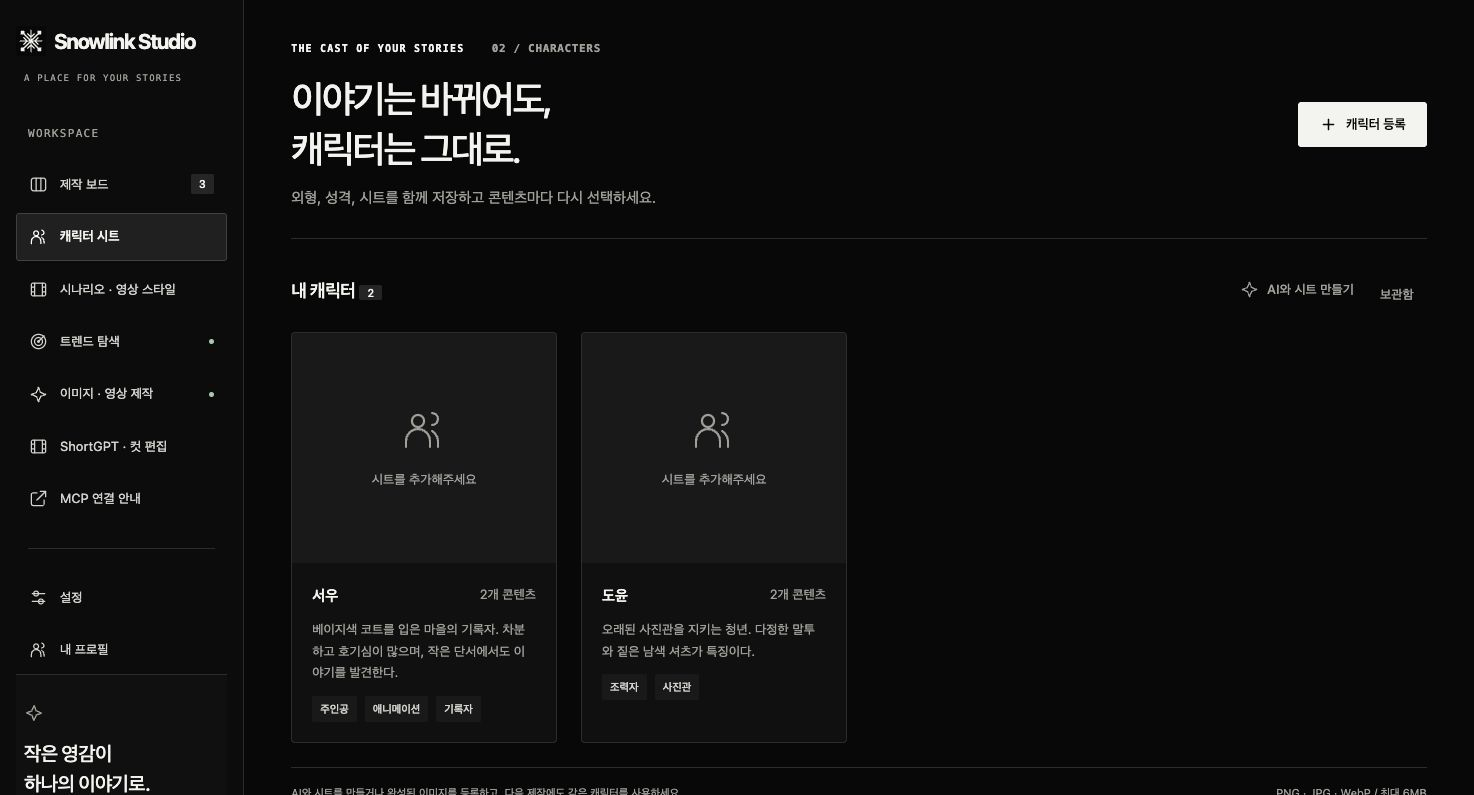
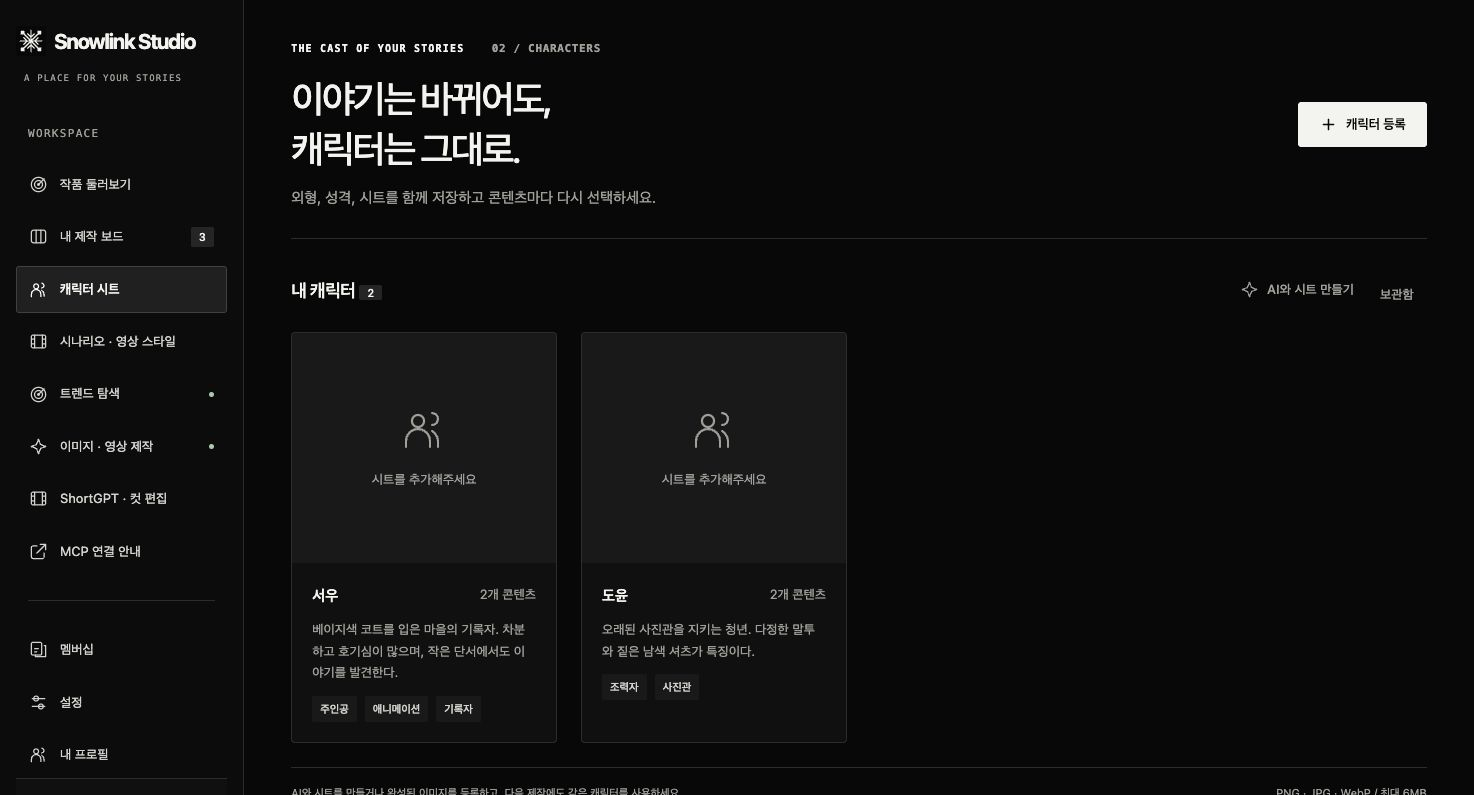
feat: align company site with Studio exploration and memberships

diff --git a/apps/company/lib/config.js b/apps/company/lib/config.js
@@ -15,24 +15,42 @@ export function companyConfig() {
     service: {
       url: 'https://studio.snowlink.team',
       name: 'Snowlink Studio',
-      button: 'Snowlink Studio 시작하기',
+      button: 'Snowlink Studio 둘러보기',
       caption: 'AI 콘텐츠 제작 작업실',
       description: '캐릭터에서 이야기로, 이야기에서 장면으로.',
     },
     headline: '작은 영감을,\n완성된 이야기로',
-    introduction: 'Snowlink Studio는 AI 캐릭터 시트와 시나리오,\n이미지·영상 제작을 하나의 작업실로 연결합니다.',
-    productSummary: 'Snowlink Studio는 캐릭터 시트 생성, 소설·시나리오 작성, 이미지·영상 생성과 컷 편집을 연결하는 AI 콘텐츠 제작 웹 서비스입니다. 전체 플롯부터 회차별 원고까지 순서대로 작성하고, 인물·사건·복선을 구조화해 다음 회차와 장면 제작에 활용합니다.',
+    introduction: '새로운 이야기를 만나고, 나의 작품을 시작하세요.\nSnowlink Studio는 작품 탐색부터 캐릭터·소설,\n이미지·영상 제작까지 하나의 흐름으로 연결합니다.',
+    productSummary: 'Snowlink Studio는 작품을 둘러보는 탐색 공간과 나만의 AI 콘텐츠 작업실을 연결하는 웹 서비스입니다. 캐릭터와 소설, 장면 이미지를 살펴본 뒤 내 제작 보드에서 캐릭터 시트, 회차별 원고, 이미지·영상 생성과 컷 편집을 이어갈 수 있습니다.',
     productAudience: '연재 소설과 시리즈를 쓰는 작가, 캐릭터를 반복 활용하는 크리에이터, 애니메이션·실사 스타일의 영상 콘텐츠를 기획하는 제작자를 위한 작업실입니다.',
+    entryPoints: [
+      { title: '이야기를 발견하기', label: '작품 둘러보기', path: '/', icon: 'radar', description: '캐릭터·소설·콘텐츠를 검색하고, 창작자별 작품과 같은 세계관의 이야기를 살펴봅니다.' },
+      { title: '내 작품 시작하기', label: '내 제작 보드', path: '/board', icon: 'board', description: '소재와 캐릭터를 기획에 연결하고, 원고 작성부터 장면 제작까지 내 작업을 이어갑니다.' },
+      { title: '다음 작업 준비하기', label: '멤버십 미리보기', path: '/membership', icon: 'cards', description: 'Free·Creator·Pro 구성안을 비교합니다. 유료 등급은 출시 예정이며 실제 결제는 진행되지 않습니다.' },
+    ],
+    showcaseNotice: '작품 탐색은 가상 창작자 3명의 캐릭터·소설·이미지 콘텐츠를 담은 목업 쇼케이스입니다. 실제 사용자 게시물의 공개 연동은 준비 중입니다.',
+    membership: {
+      title: '작업의 크기에 맞춰, 다음 이야기를 준비하세요.',
+      description: '가볍게 둘러보는 시작부터 개인 콘텐츠와 장편 시리즈 제작까지. 현재는 등급별 구성과 결제 흐름을 살펴보는 멤버십 미리보기입니다.',
+      notice: '유료 가격과 정확한 이용 한도는 출시 시 안내합니다. 미리보기에서는 결제 정보를 입력하지 않으며, 실제 청구·구독 신청·계정 권한 변경이 이루어지지 않습니다.',
+      plans: [
+        { name: 'Free', price: '무료', description: '작업실과 기본 제작 흐름을 가볍게 둘러보는 시작.', features: ['작품 쇼케이스와 제작 보드', '캐릭터·시나리오 제작 화면', '이미지·영상·컷 편집 흐름'] },
+        { name: 'Creator', price: '출시 예정', description: '캐릭터와 이야기를 쌓아가는 개인 크리에이터를 위한 구성안.', features: ['캐릭터·프롬프트 템플릿 활용 확대', '회차별 원고와 복선 관리 중심', '생성 이용량 확장 예정'] },
+        { name: 'Pro', price: '출시 예정', description: '긴 시리즈와 여러 콘텐츠를 꾸준히 제작하는 분을 위한 구성안.', features: ['장편·다회차 제작 중심', '캐릭터·스타일 템플릿 확장', '생성 이용량 추가 확대 예정'] },
+      ],
+    },
     faq: [
-      { id: 'what-is-snowlink-studio', question: 'Snowlink Studio는 어떤 제품인가요?', answer: 'Snowlink Studio는 스노우링크(SnowLink)가 만드는 AI 콘텐츠 제작 웹 서비스입니다. 트렌드 탐색과 제작 보드, 캐릭터 시트, 소설·시나리오, 이미지·영상 생성, 컷 편집을 한 작업실에서 이어서 사용할 수 있습니다.' },
+      { id: 'what-is-snowlink-studio', question: 'Snowlink Studio는 어떤 제품인가요?', answer: 'Snowlink Studio는 스노우링크(SnowLink)가 만드는 작품 탐색 공간이자 AI 콘텐츠 제작 작업실입니다. 첫 화면에서 캐릭터·소설·이미지 콘텐츠를 둘러보고, 내 제작 보드에서 캐릭터 시트, 회차별 원고, 이미지·영상 생성과 컷 편집을 이어갈 수 있습니다.' },
+      { id: 'explore-and-creators', question: '첫 화면에서는 무엇을 볼 수 있나요?', answer: '기본 화면은 작품 둘러보기입니다. 캐릭터·소설·콘텐츠를 종류별로 필터링하거나 검색하고, 작품 상세와 창작자별 목록을 열 수 있습니다. 소설은 회차를 바꾸며 읽고 관련 캐릭터와 장면을 함께 볼 수 있습니다. 현재는 가상 창작자 3명, 캐릭터·소설·이미지 콘텐츠 각 3개와 소설 6개 회차로 구성한 목업이며, 실제 사용자 게시물의 공개 연동은 준비 중입니다.' },
       { id: 'story-continuity', question: '긴 소설이나 시리즈의 앞뒤 내용을 어떻게 연결하나요?', answer: '전체 플롯 → 회차별 플롯 → 상세 원고 순서로 작성합니다. 인물·사건·관계·복선을 구조화해 저장하고 다음 회차에 필요한 맥락을 가져옵니다. 회차별 최소·최대 글자 수를 지정하고 복선의 진행과 회수를 확인할 수 있습니다. 설정의 충돌과 최종 원고는 작성자가 검토하며 다듬습니다.' },
       { id: 'character-consistency', question: '여러 장면에 같은 캐릭터를 사용할 수 있나요?', answer: '참고 사진이나 새로운 캐릭터 유형에서 출발해 AI와 대화하며 캐릭터 시트를 만듭니다. 일관성 중심 시트와 애니메이션 디자인 시트를 고르거나 직접 만든 프롬프트 템플릿을 저장할 수 있습니다. 등록한 시트를 이미지·영상 생성의 참조로 재사용하며, 생성 결과의 외형 일치 여부를 확인해 조정합니다.' },
       { id: 'video-workflow', question: '어떤 스타일의 이미지와 영상을 만들 수 있나요?', answer: '애니메이션과 실사 영화 스타일을 템플릿으로 정해 장면 노드와 이미지·영상 생성에 활용합니다. 컷의 순서·대사·길이를 편집하고, 무음 콘티 MP4로 흐름을 확인할 수 있습니다. 콘티 내보내기는 음성·음악까지 합성한 최종 영상과는 별도의 미리보기 기능입니다.' },
-      { id: 'mcp-access', question: '로그인 없이 살펴볼 수 있나요? Claude Code·Codex에서도 쓸 수 있나요?', answer: 'Studio의 제작 페이지와 MCP 연결 안내는 로그인 없이 열립니다. 설정·프로필과 내 계정의 자료를 사용하는 MCP 연결에는 로그인과 연결 승인이 필요합니다. MCP를 통해 Claude Code·Codex에서 캐릭터, 시나리오, 장면 노드와 생성 작업을 요청할 수 있습니다.' },
+      { id: 'mcp-access', question: '로그인 없이 살펴볼 수 있나요? Claude Code·Codex에서도 쓸 수 있나요?', answer: '작품 탐색·작품 상세·창작자 목록, 제작 페이지, 멤버십·결제 미리보기와 MCP 연결 안내는 로그인 없이 열립니다. 설정·내 프로필과 내 계정 자료를 사용하는 MCP 연결에는 로그인과 연결 승인이 필요합니다. MCP를 통해 Claude Code·Codex에서 캐릭터, 시나리오, 장면 노드와 생성 작업을 요청할 수 있습니다.' },
+      { id: 'membership-preview', question: '멤버십은 어떤 등급인가요? 지금 결제되나요?', answer: 'Free·Creator·Pro 세 가지 구성안을 제공합니다. Free는 무료로 둘러보는 시작이며, Creator와 Pro의 가격은 모두 출시 예정입니다. 월간·연간 주기와 결제 수단을 선택해 완료 화면까지 미리 볼 수 있지만 카드·계좌 정보는 입력하지 않습니다. 실제 청구·구독 신청·계정 등급 변경은 발생하지 않으며, 가격과 정확한 이용 한도는 출시 시 안내합니다.' },
       { id: 'publishing', question: '카드뉴스 기획과 SNS 자동 게시도 지원하나요?', answer: '제작 보드에서 카드뉴스·썰 영상·YouTube 형식의 기획과 대본을 만들고 제작 자료를 연결할 수 있습니다. Instagram·YouTube 자동 게시와 예약 업로드는 현재 지원하지 않습니다. 지금은 기획, 이야기 작성, 캐릭터와 장면 제작, 컷 구성에 활용할 수 있습니다.' },
     ],
     aboutTitle: '도구 사이의 번거로움을 줄이고,\n창작의 흐름을 이어갑니다.',
-    about: '소재를 찾고, 캐릭터를 만들고, 이야기를 쓴 다음 영상으로 옮기는 일. 창작에는 여러 단계가 필요합니다. 스노우링크는 이 과정이 하나의 작업실에서 자연스럽게 이어지는 경험을 만듭니다.',
+    about: '새로운 작품에서 영감을 얻고, 캐릭터를 만들고, 이야기를 쓴 다음 장면으로 옮기는 일. 창작에는 여러 단계가 필요합니다. 스노우링크는 작품을 발견하는 순간과 직접 만드는 시간을 연결해, 아이디어가 하나의 이야기로 이어지는 경험을 만듭니다.',
     contactTitle: '함께 만들 이야기가 있나요?',
     contactDescription: '제품과 사업 관련 문의를 기다립니다.',
     features: [
@@ -41,12 +59,22 @@ export function companyConfig() {
       { icon: 'film', title: '장면으로 완성', description: '애니메이션과 실사 영화 스타일을 고르고, 이미지·영상 생성과 컷 편집으로 제작을 이어갑니다.' },
     ],
     workflow: [
-      { title: '소재와 기획', description: '트렌드를 살펴보고 제작 보드에 콘텐츠 형식, 대본, 출연 캐릭터를 정리합니다.' },
+      { title: '발견과 기획', description: '쇼케이스와 트렌드에서 소재를 찾고 내 제작 보드에 콘텐츠 형식, 대본, 출연 캐릭터를 정리합니다.' },
       { title: '캐릭터와 이야기', description: '캐릭터 시트와 영상 스타일을 정한 뒤 전체 플롯부터 회차별 원고까지 작성합니다.' },
       { title: '이미지와 영상', description: '원고를 장면으로 나누고 캐릭터 시트를 참조해 이미지와 영상을 생성합니다.' },
       { title: '컷 구성과 확인', description: '컷의 순서, 대사, 길이를 다듬고 콘티 미리보기로 이야기의 흐름을 확인합니다.' },
     ],
     productDetails: [
+      {
+        icon: 'radar', title: '먼저, 새로운 이야기를 만나보세요.',
+        description: 'Studio의 첫 화면은 캐릭터·소설·콘텐츠를 둘러보는 작품 탐색 공간입니다.',
+        points: ['작품 종류를 선택하고 제목·캐릭터·창작자 이름으로 검색합니다.', '최신순·제목순으로 정렬하고 마음에 드는 작품의 상세 페이지를 엽니다.', '현재는 가상 창작자와 AI 생성 이미지로 구성한 목업 쇼케이스입니다.'],
+      },
+      {
+        icon: 'people', title: '한 창작자의 세계를 따라갑니다.',
+        description: '캐릭터 프로필과 소설, 장면 이미지를 서로 연결해 살펴봅니다.',
+        points: ['창작자 페이지에서 해당 창작자의 캐릭터·소설·콘텐츠를 모아 봅니다.', '소설의 회차를 선택하거나 이전·다음 화로 이동하며 원고를 읽습니다.', '같은 세계관의 캐릭터와 장면 콘텐츠를 작품 상세에서 이어서 확인합니다.'],
+      },
       {
         icon: 'board', title: '소재를 모으고, 기획을 정리합니다.',
         description: '떠오른 아이디어와 참고할 소재를 실제 제작할 콘텐츠로 구체화합니다.',

diff --git a/apps/company/components/ProductShowcase.jsx b/apps/company/components/ProductShowcase.jsx
@@ -3,27 +3,35 @@
 import { useState } from 'react';
 import { Icon } from './Icon';
 
+const groups = [{ id: 'explore', label: '발견하고 읽기' }, { id: 'create', label: '내 작품 만들기' }, { id: 'membership', label: '멤버십 살펴보기' }];
 const screens = [
+  { id: 'explore', group: 'explore', label: '작품 둘러보기', icon: 'radar', title: '새로운 Studio의 시작, 작품 탐색', description: '기본 화면에서 캐릭터·소설·이미지 콘텐츠를 검색하고 종류별로 살펴봅니다. 현재는 가상 창작자의 목업 작품을 제공합니다.' },
+  { id: 'creators', group: 'explore', label: '창작자별 작품', icon: 'people', title: '한 창작자가 만든 세계를 따라', description: '창작자의 캐릭터와 소설, 장면 이미지를 한곳에서 살펴보고 작품 상세로 이동합니다. 화면은 예시 창작자 서월의 목업입니다.' },
+  { id: 'novel', group: 'explore', label: '소설 회차 읽기', icon: 'cards', title: '캐릭터를 만났다면, 이야기를 읽을 시간', description: '회차를 고르거나 이전·다음 화로 이동하며 원고를 읽습니다. 같은 세계관의 캐릭터와 장면 콘텐츠도 이어서 확인할 수 있습니다.' },
   { id: 'board', label: '제작 보드', icon: 'board', title: '아이디어부터 완성까지, 한눈에', description: '콘텐츠를 제작 단계별로 정리하고, 이야기와 출연 캐릭터를 하나의 기획에 연결합니다.' },
   { id: 'characters', label: '캐릭터 시트', icon: 'people', title: '다음 장면에서도, 같은 캐릭터', description: '사진이나 새로운 설정에서 시작해 AI와 캐릭터를 만들고, 시트와 프롬프트 템플릿을 관리합니다.' },
   { id: 'scenarios', label: '시나리오 · 영상 스타일', icon: 'cards', title: '한 줄의 구상을 이어지는 이야기로', description: '전체 플롯, 회차별 플롯, 상세 원고를 순서대로 작성합니다. 회차별 분량과 이야기 기억도 함께 관리합니다.' },
   { id: 'trends', label: '트렌드 탐색', icon: 'radar', title: '새로운 이야기의 출발점', description: '여러 채널의 트렌드와 관심 주제를 살펴보고, 다음 콘텐츠에 활용할 소재를 발견합니다.' },
   { id: 'media', label: '이미지 · 영상 제작', icon: 'image', title: '상상한 장면을 눈앞에', description: '이미지와 영상의 생성 설정을 조정하고, 작업 결과를 갤러리와 노드 작업실에서 이어갑니다.' },
   { id: 'cuts', label: 'ShortGPT · 컷 편집', icon: 'film', title: '장면의 흐름을 다듬는 시간', description: '컷별 내레이션, 화면 연출, 길이를 편집하고 AI와 대화하면서 장면 구성을 수정합니다.' },
+  { id: 'membership', group: 'membership', label: '멤버십 구성', icon: 'cards', title: 'Free부터 Creator, Pro까지', description: '작업 방식에 맞는 멤버십 구성안을 비교합니다. Creator·Pro 가격은 출시 예정이며, 정확한 이용 한도는 정식 출시 시 안내합니다.' },
+  { id: 'checkout', group: 'membership', label: '결제 미리보기', icon: 'check', title: '구독 전에, 결제 흐름을 미리 확인', description: '선택한 등급과 월간·연간 주기, 결제 수단을 확인하고 완료 화면까지 살펴봅니다. 결제 정보를 수집하거나 실제 청구·구독 신청을 진행하지 않습니다.' },
 ];
 
 export function ProductShowcase({ productName }) {
   const [selected, setSelected] = useState(0);
   const screen = screens[selected];
-  const source = `/screenshots/${screen.id}.jpg?v=20261008-snowlink-studio`;
+  const activeGroup = screen.group || 'create';
+  const source = `/screenshots/${screen.id}.jpg?v=20261008-explore-membership`;
 
   return <section className="company-showcase" aria-labelledby="showcase-title">
     <div className="company-showcase-heading">
-      <div><p className="eyebrow">INSIDE THE STUDIO</p><h3 id="showcase-title">작업실을 둘러보세요</h3></div>
-      <p>탭을 선택하면 실제 제품 화면을 볼 수 있습니다.</p>
+      <div><p className="eyebrow">INSIDE THE STUDIO</p><h3 id="showcase-title">발견부터 제작까지, 화면으로 만나보세요</h3></div>
+      <p>작품 탐색·제작·멤버십의 실제 화면을 살펴보세요.</p>
     </div>
-    <div className="company-screen-picker" role="group" aria-label="제품 화면 선택">
-      {screens.map((item, index) => <button key={item.id} type="button" aria-pressed={selected === index} aria-controls="company-screen" onClick={() => setSelected(index)}><Icon name={item.icon}/>{item.label}</button>)}
+    <div className="company-screen-groups" role="group" aria-label="제품 사용 흐름 선택">{groups.map(group => <button key={group.id} type="button" aria-pressed={activeGroup === group.id} aria-controls="company-screen-options" onClick={() => setSelected(screens.findIndex(item => (item.group || 'create') === group.id))}>{group.label}</button>)}</div>
+    <div id="company-screen-options" className="company-screen-picker" role="group" aria-label="제품 화면 선택">
+      {screens.map((item, index) => (item.group || 'create') === activeGroup && <button key={item.id} type="button" aria-pressed={selected === index} aria-controls="company-screen" onClick={() => setSelected(index)}><Icon name={item.icon}/>{item.label}</button>)}
     </div>
     <figure id="company-screen" className="company-screen">
       <div className="company-screen-bar"><span><i/><i/><i/></span><span>{productName}</span><span>{String(selected + 1).padStart(2, '0')} / {String(screens.length).padStart(2, '0')}</span></div>
@@ -35,6 +43,6 @@ export function ProductShowcase({ productName }) {
         <a href={source} target="_blank" rel="noopener noreferrer">원본 크게 보기 <Icon name="external"/><span className="sr-only"> (새 탭)</span></a>
       </figcaption>
     </figure>
-    <p className="company-screen-note">소개용 예시 데이터로 구성한 실제 서비스 화면입니다. 연결 상태와 콘텐츠는 계정에 따라 달라집니다.</p>
+    <p className="company-screen-note">현재 Studio를 직접 캡처한 화면입니다. 작품 탐색은 가상 창작자의 목업, 제작 화면은 소개용 계정의 예시 데이터입니다. 멤버십·결제는 출시 전 미리보기이며 계정과 연결 상태에 따라 화면이 달라질 수 있습니다.</p>
   </section>;
 }

diff --git a/apps/company/app/page.jsx b/apps/company/app/page.jsx
@@ -23,13 +23,13 @@ export default function CompanyPage() {
     <a className="skip-link" href="#company-main">회사 소개로 건너뛰기</a>
     <header className="company-header">
       <a href="/" className="brand" aria-label={`${c.brand} 회사 소개`}><img src="/brandmark.svg" alt=""/><span>{c.brand}</span></a>
-      <nav aria-label="회사 안내"><a href="#about">회사 소개</a><a href="#product">제품</a><a href="#contact">문의</a><ServiceLink service={c.service} className="button primary">스튜디오 열기</ServiceLink></nav>
+      <nav aria-label="회사 안내"><a href="#about">회사 소개</a><a href="#product">제품</a><a href="#contact">문의</a><ServiceLink service={c.service} className="button primary">작품 둘러보기</ServiceLink></nav>
     </header>
     <main id="company-main">
       <section className="company-hero" aria-labelledby="hero-title">
         <div className="company-hero-intro">
           <div><p className="eyebrow"><span className="status-dot"/> A PLACE FOR YOUR STORIES</p><h1 id="hero-title"><Lines text={c.headline}/><span className="hero-period">.</span></h1></div>
-          <div className="company-hero-copy"><p><Lines text={c.introduction}/></p><ServiceLink service={c.service} className="company-text-link">창작 시작하기</ServiceLink></div>
+          <div className="company-hero-copy"><p><Lines text={c.introduction}/></p><ServiceLink service={c.service} className="company-text-link">Studio 둘러보기</ServiceLink></div>
         </div>
         <VectorWordmark text={c.brand}/>
       </section>
@@ -41,9 +41,17 @@ export default function CompanyPage() {
         <div className="company-section-heading"><SectionLabel number="02">OUR PRODUCT</SectionLabel><span>{c.service.caption}</span></div>
         <div className="company-product-heading"><div><h2 id="product-title">{c.service.name}<span className="product-period">.</span></h2><p>{c.service.description}</p></div><ServiceLink service={c.service} className="button primary">{c.service.button}</ServiceLink></div>
         <div className="company-product-summary"><p>{c.productSummary}</p><p>{c.productAudience}</p></div>
+        <nav className="company-entry-points" aria-label="Studio 시작 방법">{c.entryPoints.map((entry, index) => <a key={entry.path} href={`${c.service.url}${entry.path}`}><div className="company-entry-index"><span>0{index + 1} /</span><Icon name={entry.icon}/></div><h3>{entry.title}</h3><p>{entry.description}</p><span className="company-entry-link">{entry.label}<Icon name="arrow"/></span></a>)}</nav>
+        <p className="company-preview-note">{c.showcaseNotice}</p>
         <div className="company-capabilities">{c.features.map((feature, index) => <article key={feature.title}><div><span>0{index + 1} /</span><Icon name={feature.icon}/></div><h3>{feature.title}</h3><p>{feature.description}</p></article>)}</div>
         <ProductShowcase productName={c.service.name}/>
         <ProductDetails workflow={c.workflow} details={c.productDetails}/>
+        <section className="company-membership" id="membership" aria-labelledby="membership-title">
+          <div className="company-detail-heading"><p className="eyebrow">YOUR NEXT CHAPTER / MEMBERSHIP PREVIEW</p><h3 id="membership-title">{c.membership.title}</h3><p>{c.membership.description}</p></div>
+          <div className="company-membership-plans">{c.membership.plans.map(plan => <article key={plan.name}><h4>{plan.name}</h4><p>{plan.description}</p><strong>{plan.price}</strong><ul>{plan.features.map(feature => <li key={feature}>{feature}</li>)}</ul></article>)}</div>
+          <p className="company-preview-note">{c.membership.notice}</p>
+          <a className="company-text-link" href={`${c.service.url}/membership`}>멤버십과 결제 흐름 미리보기<Icon name="arrow"/></a>
+        </section>
         <section className="company-faq" id="faq" aria-labelledby="faq-title">
           <div className="company-detail-heading"><p className="eyebrow">BEFORE YOU CREATE</p><h3 id="faq-title">Snowlink Studio, 궁금한 점을 모았습니다.</h3><p>제품 안내 기준일 <time dateTime={c.contentUpdated}>{c.contentUpdated}</time></p></div>
           <div className="company-faq-list">{c.faq.map(item => <article key={item.id} id={item.id}><h4><a href={`#${item.id}`}>{item.question}</a></h4><p>{item.answer}</p></article>)}</div>
@@ -59,7 +67,7 @@ export default function CompanyPage() {
       <div className="company-footer-top">
         <div className="company-footer-brand"><a className="brand" href="/" aria-label={`${c.brand} 처음으로`}><img src="/brandmark.svg" alt=""/><span>{c.brand}</span></a><p>아이디어와 창작 도구를 연결합니다.<br/>만들고 싶은 이야기에 더 오래 집중할 수 있도록.</p><a className="company-footer-email" href={`mailto:${c.email}`}>{c.email}<Icon name="external"/></a></div>
         <nav aria-label="하단 회사 안내"><h2>회사</h2><a href="#about">스노우링크 소개</a><a href="#contact">사업 및 제품 문의</a></nav>
-        <nav aria-label="하단 제품 안내"><h2>제품</h2><a href="#product">{c.service.name} 소개</a><a href="#faq">자주 묻는 질문</a><a href="/llms-full.txt">제품 정보 (텍스트)</a><a href={c.service.url}>스튜디오 시작하기 <Icon name="external"/></a></nav>
+        <nav aria-label="하단 제품 안내"><h2>제품</h2><a href="#product">{c.service.name} 소개</a><a href={c.service.url}>작품 둘러보기 <Icon name="external"/></a><a href={`${c.service.url}/board`}>내 제작 보드 <Icon name="external"/></a><a href="#membership">멤버십 미리보기</a><a href="#faq">자주 묻는 질문</a><a href="/llms-full.txt">제품 정보 (텍스트)</a></nav>
       </div>
       <div className="company-footer-business">
         <h2>{c.name}</h2>

diff --git a/apps/company/styles/company.css b/apps/company/styles/company.css
@@ -70,6 +70,26 @@ html { scroll-behavior: smooth; scroll-padding-top: 28px; }
 .company-product-summary { display: grid; grid-template-columns: 1.4fr 1fr; gap: 48px; margin: -16px 0 42px; }
 .company-product-summary p { font-size: 14px; line-height: 1.95; color: var(--color-text-secondary); }
 .company-product-summary p+p { color: var(--color-text-muted); }
+.company-entry-points { display: grid; grid-template-columns: repeat(3,minmax(0,1fr)); gap: 18px; }
+.company-entry-points>a { display: flex; flex-direction: column; padding: 26px; border: 1px solid var(--color-border); background: var(--color-surface); min-width: 0; }
+.company-entry-points>a:hover { border-color: var(--color-border-strong); background: #151515; }
+.company-entry-index { display: flex; align-items: center; justify-content: space-between; color: var(--color-text-muted); font: 10px var(--company-mono); }
+.company-entry-index .icon { width: 19px; height: 19px; }
+.company-entry-points h3 { margin-top: 26px; font-size: 21px; font-weight: 500; letter-spacing: -.04em; }
+.company-entry-points p { margin-top: 14px; font-size: 12px; line-height: 1.9; color: var(--color-text-muted); }
+.company-entry-link { display: flex; justify-content: space-between; gap: 20px; padding-top: 26px; margin-top: auto; font-size: 12px; }
+.company-entry-link .icon { width: 15px; height: 15px; }
+.company-preview-note { font-size: 11px; color: var(--color-text-muted); line-height: 1.9; margin-top: 18px; }
+.company-entry-points+.company-preview-note { margin-bottom: 42px; }
+.company-membership { margin-top: 75px; }
+.company-membership-plans { display: grid; grid-template-columns: repeat(3,minmax(0,1fr)); border-top: 1px solid var(--color-border); border-bottom: 1px solid var(--color-border); margin-top: 32px; }
+.company-membership-plans article { padding: 30px; min-width: 0; }
+.company-membership-plans article:first-child { padding-left: 0; }
+.company-membership-plans article+article { border-left: 1px solid var(--color-border); }
+.company-membership-plans h4 { font-size: 32px; font-weight: 500; letter-spacing: -.04em; }
+.company-membership-plans p { font-size: 12px; line-height: 1.9; min-height: 46px; margin-top: 16px; color: var(--color-text-muted); }
+.company-membership-plans strong { display: block; font-size: 27px; font-weight: 500; margin-top: 24px; letter-spacing: -.04em; }
+.company-membership-plans ul { display: grid; gap: 11px; padding: 24px 0 0 15px; font-size: 12px; line-height: 1.8; color: var(--color-text-secondary); }
 .company-faq { margin-top: 80px; }
 .company-faq-list { margin-top: 32px; border-top: 1px solid var(--color-border); }
 .company-faq-list article { display: grid; grid-template-columns: 1fr 1.4fr; gap: 40px; padding: 28px 0; border-bottom: 1px solid var(--color-border); scroll-margin-top: 28px; }
@@ -94,6 +114,9 @@ html { scroll-behavior: smooth; scroll-padding-top: 28px; }
 .company-screen-picker .icon { width: 15px; height: 15px; }
 .company-screen-picker button:hover { background: #191919; color: #eee; }
 .company-screen-picker button[aria-pressed=true] { color: #080808; background: #edede8; border-color: #edede8; }
+.company-screen-groups { display: flex; flex-wrap: wrap; gap: 24px; margin-bottom: 20px; border-bottom: 1px solid var(--color-border); }
+.company-screen-groups button { padding: 0 0 13px; border: 0; border-bottom: 2px solid transparent; background: none; color: var(--color-text-muted); font: inherit; font-size: 12px; cursor: pointer; }
+.company-screen-groups button[aria-pressed=true] { color: var(--color-text); border-bottom-color: var(--color-text); }
 .company-screen { margin: 0; border: 1px solid #333; border-radius: 4px; overflow: hidden; background: #111; }
 .company-screen-bar { display: flex; align-items: center; justify-content: space-between; gap: 12px; padding: 16px 20px; font: 10px var(--company-mono); color: #aaa; border-bottom: 1px solid #333; }
 .company-screen-bar>span:first-child { display: flex; gap: 5px; }
@@ -205,6 +228,16 @@ html { scroll-behavior: smooth; scroll-padding-top: 28px; }
   .company-product-heading .button { margin-top: 24px; }
   .company-product-summary { grid-template-columns: 1fr; gap: 14px; margin: 0 0 28px; }
   .company-product-summary p { font-size: 12px; }
+  .company-entry-points { grid-template-columns: 1fr; gap: 12px; }
+  .company-entry-points>a { padding: 22px; }
+  .company-entry-points h3 { margin-top: 18px; font-size: 20px; }
+  .company-preview-note { font-size: 10px; }
+  .company-membership { margin-top: 48px; }
+  .company-membership-plans { grid-template-columns: 1fr; }
+  .company-membership-plans article { padding: 26px 0; }
+  .company-membership-plans article+article { border-left: 0; border-top: 1px solid var(--color-border); }
+  .company-membership-plans p { min-height: 0; }
+  .company-screen-groups { gap: 22px; }
   .company-faq { margin-top: 48px; }
   .company-faq-list article { grid-template-columns: 1fr; gap: 12px; padding: 24px 0; }
   .company-faq-list h4 { font-size: 16px; }

diff --git a/apps/company/lib/seo.js b/apps/company/lib/seo.js
@@ -3,7 +3,7 @@ import { companyConfig } from './config.js';
 const c = companyConfig();
 export const siteUrl = c.siteUrl;
 export const title = `${c.service.name} | AI 캐릭터·소설·이미지·영상 제작`;
-export const description = '캐릭터 시트부터 소설·시나리오, 이미지·영상 생성과 컷 편집까지. Snowlink Studio에서 회차별 플롯과 인물·복선의 맥락을 이어 쓰고, Claude Code·Codex MCP로 제작 작업을 연결하세요.';
+export const description = '캐릭터·소설·이미지 작품을 둘러보고 나만의 창작을 시작하세요. Snowlink Studio는 작품 탐색부터 캐릭터 시트, 회차별 원고, 이미지·영상 생성과 컷 편집을 연결합니다. 멤버십은 출시 전 미리보기로 만나보세요.';
 export const shareImage = {
   url: `${siteUrl}/opengraph-image`, width: 1200, height: 630,
   alt: 'Snowlink Studio — AI 캐릭터 시트, 스토리와 영상 제작 작업실',
@@ -50,8 +50,8 @@ export function structuredData() {
         applicationCategory: 'MultimediaApplication', operatingSystem: 'Web', inLanguage: 'ko-KR',
         publisher: { '@id': `${siteUrl}/#organization` },
         mainEntityOfPage: { '@id': `${siteUrl}/#webpage` },
-        image: shareImage.url, screenshot: `${siteUrl}/screenshots/board.jpg`,
-        featureList: c.features.map(feature => `${feature.title}: ${feature.description}`),
+        image: shareImage.url, screenshot: ['explore', 'creators', 'novel', 'board', 'membership'].map(id => `${siteUrl}/screenshots/${id}.jpg`),
+        featureList: [...c.features.map(feature => `${feature.title}: ${feature.description}`), `작품 탐색: ${c.showcaseNotice}`, `멤버십 미리보기: ${c.membership.notice}`],
       },
     ],
   };
@@ -63,11 +63,14 @@ export function productText({ full = false } = {}) {
     `# ${c.service.name}`,
     `> ${c.productSummary}`,
     `${c.productAudience}\n\n제품 안내 기준일: ${c.contentUpdated}`,
-    `## 공식 페이지\n\n- [회사 및 제품 소개](${siteUrl}/): 운영사와 제품 기능\n- [상세 기능](${siteUrl}/#details-title): 제작 단계별 설명\n- [자주 묻는 질문](${siteUrl}/#faq): 사용 범위와 이용 방법\n- [Studio](${c.service.url}): 웹 작업실\n- [MCP 연결 안내](${c.service.url}/mcp): Claude Code·Codex 연결과 계정 인증\n- [전체 제품 안내 텍스트](${siteUrl}/llms-full.txt): 공개 본문의 텍스트 버전`,
+    c.showcaseNotice,
+    `## 공식 페이지\n\n- [회사 및 제품 소개](${siteUrl}/): 운영사와 제품 기능\n- [상세 기능](${siteUrl}/#details-title): 탐색과 제작 단계별 설명\n- [자주 묻는 질문](${siteUrl}/#faq): 사용 범위와 이용 방법\n- [작품 둘러보기](${c.service.url}/): 기본 화면, 목업 작품 탐색\n- [내 제작 보드](${c.service.url}/board): 나의 콘텐츠 기획과 제작\n- [멤버십 미리보기](${c.service.url}/membership): Free·Creator·Pro 구성안과 결제 미리보기\n- [MCP 연결 안내](${c.service.url}/mcp): Claude Code·Codex 연결과 계정 인증\n- [전체 제품 안내 텍스트](${siteUrl}/llms-full.txt): 공개 본문의 텍스트 버전`,
+    `## Studio 시작 방법\n\n${c.entryPoints.map(entry => `- [${entry.label}](${c.service.url}${entry.path}): ${entry.description}`).join('\n')}`,
   ];
   if (full) {
     sections.push(`## 제작 흐름\n\n${c.workflow.map((step, i) => `${i + 1}. ${step.title}: ${step.description}`).join('\n')}`);
     sections.push(`## 제품 기능\n\n${c.productDetails.map(detail => `### ${detail.title}\n\n${detail.description}\n\n${detail.points.map(point => `- ${point}`).join('\n')}`).join('\n\n')}`);
+    sections.push(`## 멤버십 미리보기\n\n${c.membership.description}\n\n${c.membership.plans.map(plan => `### ${plan.name} — ${plan.price}\n\n${plan.description}\n\n${plan.features.map(feature => `- ${feature}`).join('\n')}`).join('\n\n')}\n\n${c.membership.notice}`);
   }
   sections.push(`## 자주 묻는 질문\n\n${c.faq.map(item => `### ${item.question}\n\n${item.answer}\n\n출처: ${siteUrl}/#${item.id}`).join('\n\n')}`);
   sections.push(`## 운영사\n\n- 회사: ${c.name}\n- 대표자: ${c.representative}\n- 사업자등록번호: ${c.registration}\n- 주소: ${c.address}\n- 개업일 및 사업자등록일: ${c.openingDate}\n- 문의: ${c.email}`);

diff --git a/apps/company/app/opengraph-image.jsx b/apps/company/app/opengraph-image.jsx
@@ -8,7 +8,7 @@ export const size = { width: 1200, height: 630 };
 export const contentType = 'image/png';
 
 export default async function Image() {
-  const screenshot = await readFile(join(process.cwd(), 'public/screenshots/board.jpg'), 'base64');
+  const screenshot = await readFile(join(process.cwd(), 'public/screenshots/explore.jpg'), 'base64');
   const c = companyConfig();
   return new ImageResponse(
     <div style={{ width: '100%', height: '100%', display: 'flex', flexDirection: 'column', background: '#080808', color: '#f3f3ef', padding: '48px 54px' }}>

diff --git a/apps/company/README.md b/apps/company/README.md
@@ -35,11 +35,17 @@ npm run dev
 
 ## 제품 화면
 
-`components/ProductShowcase.jsx`에서 Studio의 6개 제작 탭 캡처와 설명을 전환합니다. 이미지는 `public/screenshots/*.jpg`에 포함되므로 Studio 서버나 로그인 없이도 표시됩니다. 원본 확대 링크는 새 탭에서 열립니다.
+`components/ProductShowcase.jsx`에서 Studio의 11개 화면을 세 가지 흐름으로 나누어 보여줍니다. 기본 선택은 현재 Studio 첫 화면인 작품 둘러보기입니다. 이미지는 `public/screenshots/*.jpg`에 포함되므로 Studio 서버나 로그인 없이도 표시됩니다. 원본 확대 링크는 새 탭에서 열립니다.
 
-`components/ProductDetails.jsx`는 제작 흐름 4단계와 기획·캐릭터·시나리오·이미지/영상·컷 편집·MCP의 상세 설명을 표시합니다. 문구는 `lib/config.js`의 `workflow`, `productDetails`에서 관리합니다. 콘티 MP4는 무음 미리보기로 안내하며, 구현되지 않은 음성·음악·최종 영상 자동 합성을 제공한다고 설명하지 않습니다.
+- 발견하고 읽기: 작품 둘러보기, 창작자별 작품, 소설 회차 읽기.
+- 내 작품 만들기: 제작 보드, 캐릭터 시트, 시나리오·영상 스타일, 트렌드, 이미지·영상, 컷 편집.
+- 멤버십 살펴보기: Free·Creator·Pro 구성안과 결제 미리보기.
 
-현재 캡처는 2026년 10월 8일 `studio.snowlink.team`의 `Snowlink Studio` UI를 소개용 예시 계정으로 촬영한 이미지입니다. 제작 보드, 캐릭터 시트, 시나리오, 트렌드 탐색, 이미지·영상 제작, 컷 편집의 6개 화면이며 설정·OAuth 소개 탭과 캡처는 포함하지 않습니다.
+`components/ProductDetails.jsx`는 제작 흐름 4단계와 탐색·창작자/원고 읽기·기획·캐릭터·시나리오·이미지/영상·컷 편집·MCP의 상세 설명을 표시합니다. 문구는 `lib/config.js`의 `workflow`, `productDetails`에서 관리합니다. 제품 시작 링크는 작품 탐색(`/`), 내 제작 보드(`/board`), 멤버십(`/membership`)으로 구분합니다. 콘티 MP4는 무음 미리보기로 안내하며, 구현되지 않은 음성·음악·최종 영상 자동 합성을 제공한다고 설명하지 않습니다.
+
+본문·FAQ·멤버십 설명·AI용 텍스트 모두 `lib/config.js`를 사용합니다. 작품 탐색이 가상 창작자의 목업이라는 점과 유료 멤버십이 출시 전 구성안임을 표시합니다. 유료 가격은 **출시 예정**으로만 안내하며 실제 결제, 구독 활성화, 기능별 한도 적용을 주장하지 않습니다. 회사 앱의 독립 배포를 위해 Studio 앱의 소스나 의존성을 직접 가져오지 않습니다.
+
+현재 캡처는 2026년 10월 8일 `studio.snowlink.team`의 최신 탐색·멤버십 메뉴가 포함된 UI를 촬영한 이미지입니다. 공개 화면 5개와 소개용 예시 계정의 제작 화면 6개를 사용하며 설정·OAuth 소개 탭과 캡처는 포함하지 않습니다.
 
 소개용 계정의 예시 캐릭터·기획·컷·플롯을 사용하고, 트렌드는 촬영 당시 공개 수집 결과를 표시합니다. 실제 고객 콘텐츠와 개인 OAuth 정보는 포함하지 않습니다. 이미지는 보정 없이 브라우저 화면을 저장한 JPEG이며 크기는 1474 × 795입니다. 화면 갱신 시 같은 파일명으로 교체하고 `ProductShowcase.jsx`의 이미지 버전도 변경해 이전 캡처 캐시를 구분하세요.
 
@@ -53,7 +59,7 @@ npm run dev
 
 - `/robots.txt`: 검색·AI 크롤러 모두 접근 허용, sitemap 주소 제공.
 - `/sitemap.xml`: 색인 가능한 회사·제품 소개 페이지. `lastModified`는 `lib/config.js`의 실제 콘텐츠 수정일 `contentUpdated`를 사용합니다.
-- `/opengraph-image`: 기존 흑백 디자인과 실제 제품 캡처를 사용한 1200 × 630 PNG 공유 카드. 빌드 시 생성하며 외부 이미지 서버가 필요 없습니다.
+- `/opengraph-image`: 기존 흑백 디자인과 새 작품 탐색 화면 캡처를 사용한 1200 × 630 PNG 공유 카드. 빌드 시 생성하며 외부 이미지 서버가 필요 없습니다.
 - `/llms.txt`, `/llms-full.txt`: 공개 본문과 동일한 설정에서 생성하는 제품 안내, 기능·FAQ·공식 출처 링크. 사용자 작업 자료나 API 비밀키는 포함하지 않습니다.
 
 제품 설명·FAQ를 변경할 때는 `lib/config.js`와 `contentUpdated`를 함께 갱신합니다. 같은 내용이 HTML·구조화 데이터·텍스트 안내에 반영됩니다. 가격·평점·리뷰 등 확인되지 않은 정보는 구조화 데이터에 넣지 않습니다. WebApplication은 제품 의미를 설명하는 용도이며 Google 앱 리치 결과 자격을 보장하지 않습니다.
